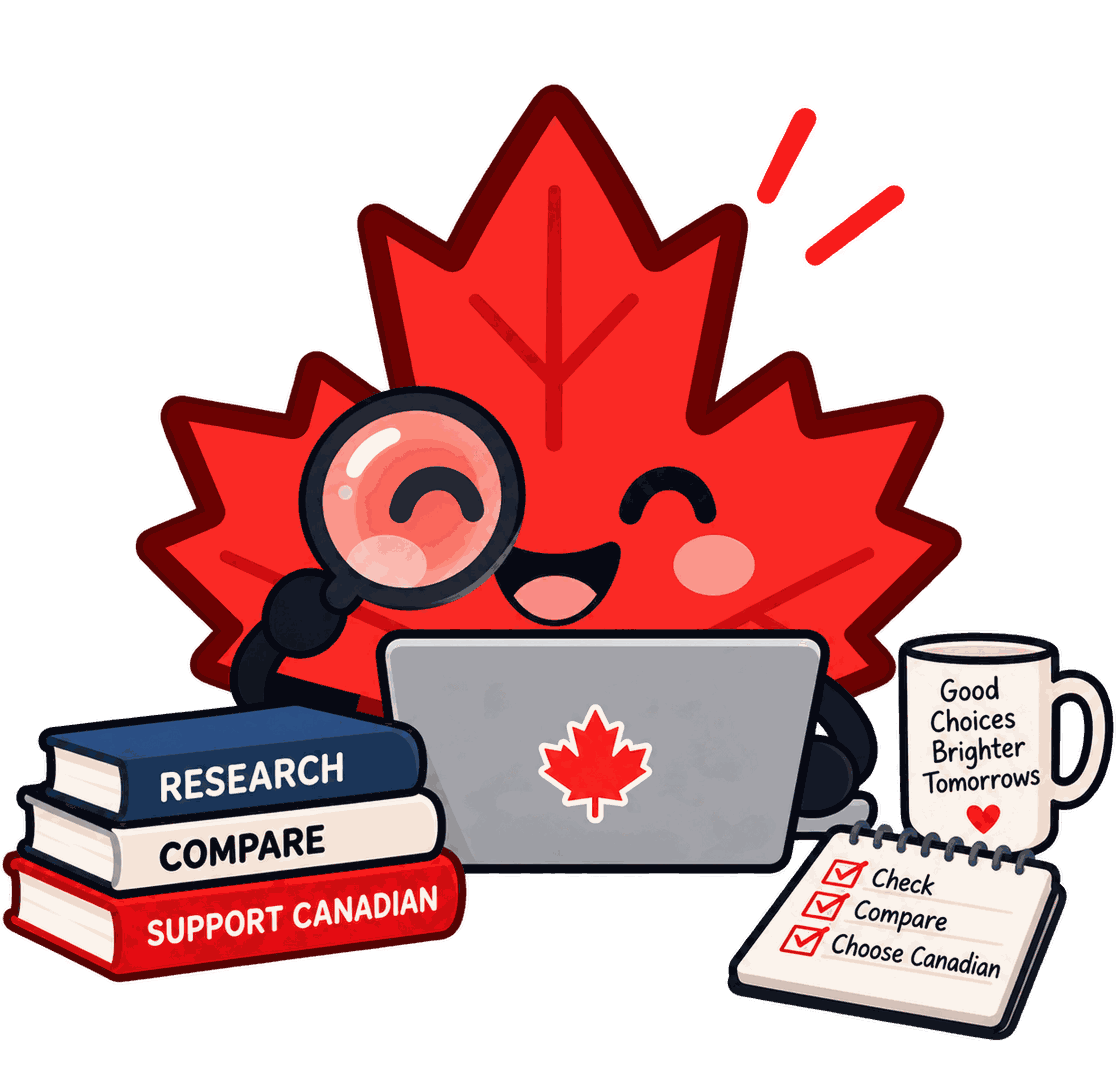
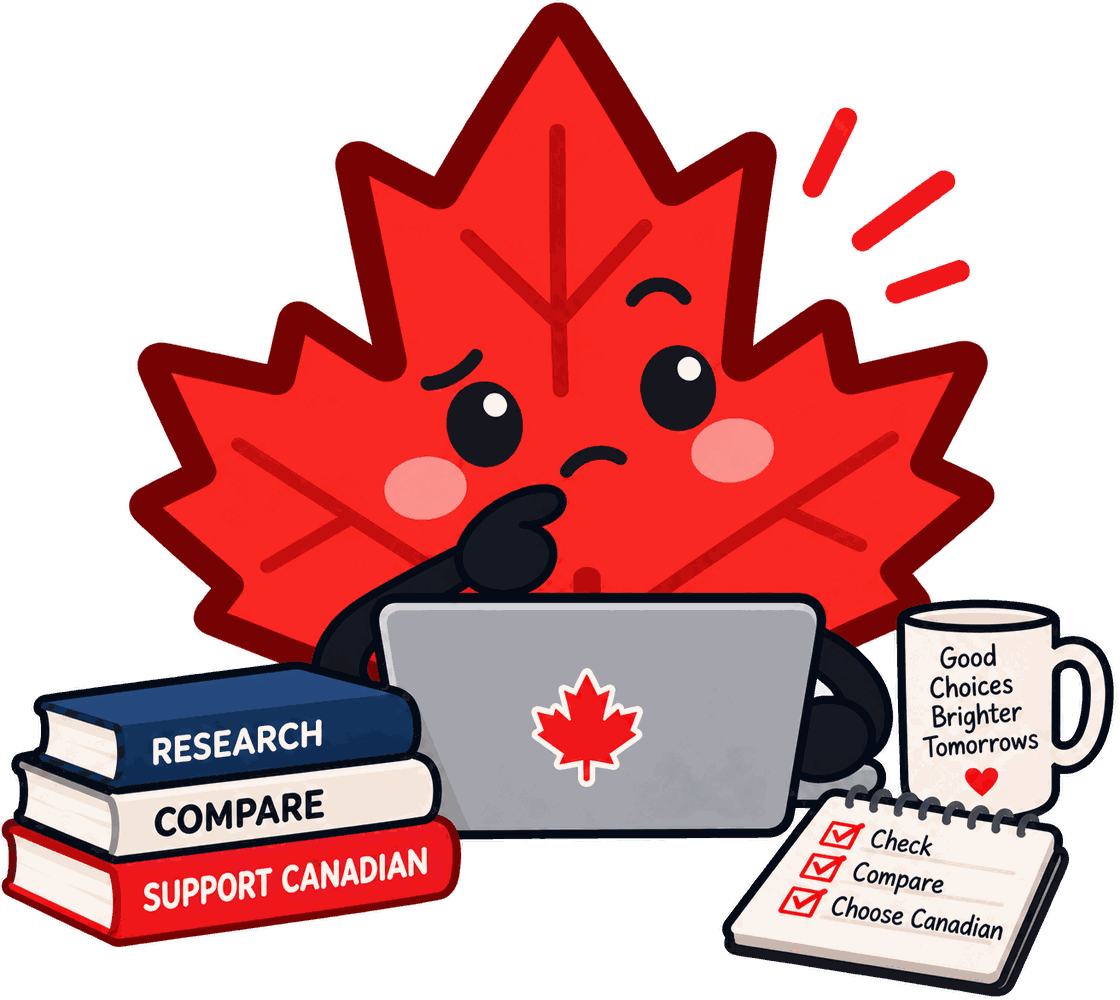
Swap in the thoughtful mascot on findings; add the clipboard one to feedback
The findings art is now the thoughtful expression rather than the
grinning one, which sits better against a page about brands that quietly
stopped being Canadian.

Feedback gets the clipboard-and-question-marks leaf, kept small and set
beside the heading rather than used as a hero — that page's job is to get
someone into the form, so the art should add warmth without pushing the
form down the screen.

Both processed the same way as before: transparent margin trimmed, capped
at the size they are actually displayed, served as WebP with a quantised
PNG fallback. 1053 KB to 134/86 KB, and 846 KB to 49/28 KB.

diff --git a/style.css b/style.css
@@ -692,3 +692,14 @@ footer.site-footer .wrap {
   .findings-hero { grid-template-columns: 1.55fr 1fr; gap: 32px; }
   .findings-hero-art { max-width: 100%; margin: 0; }
 }
+
+/* ---- Feedback page mascot ----
+   Small and beside the heading rather than a hero: this page's job is to get
+   someone into the form, so the art adds warmth without pushing the form down
+   the screen. Hidden from assistive tech order concerns by being purely
+   decorative alongside a heading that already says what the page is. */
+.feedback-head { display: flex; align-items: center; gap: 18px; flex-wrap: wrap; }
+.feedback-head h2 { margin: 0; flex: 1 1 260px; }
+.feedback-art { flex: 0 0 auto; width: 104px; }
+.feedback-art img { width: 100%; height: auto; display: block; }
+@media (max-width: 560px) { .feedback-art { width: 76px; } }

diff --git a/feedback.html b/feedback.html
@@ -38,7 +38,13 @@
 
 <section class="section">
   <div class="wrap">
-    <h2>Tell us what would make this better</h2>
+    <div class="feedback-head">
+      <h2>Tell us what would make this better</h2>
+      <picture class="feedback-art">
+        <source srcset="mascot-feedback.webp" type="image/webp" />
+        <img src="mascot-feedback.png" width="560" height="584" alt="The MapleCheck maple leaf holding a clipboard and pen, with question marks above its head." />
+      </picture>
+    </div>
     <p class="section-lede">
       MapleCheck is an independent project — not a company, not a government
       service, and not anybody's side hustle with a marketing budget. It is

diff --git a/build-findings-page.js b/build-findings-page.js
@@ -218,7 +218,7 @@ const html = `<!DOCTYPE html>
       </div>
       <picture class="findings-hero-art">
         <source srcset="mascot.webp" type="image/webp" />
-        <img src="mascot.png" width="1120" height="1079" alt="The MapleCheck maple leaf at a laptop with a magnifying glass, beside books labelled Research, Compare, Support Canadian and a checklist reading Check, Compare, Choose Canadian." />
+        <img src="mascot.png" width="1120" height="1000" alt="The MapleCheck maple leaf looking thoughtfully at a laptop, beside books labelled Research, Compare, Support Canadian and a checklist reading Check, Compare, Choose Canadian." />
       </picture>
     </div>
 `;

diff --git a/findings.html b/findings.html
@@ -57,7 +57,7 @@
       </div>
       <picture class="findings-hero-art">
         <source srcset="mascot.webp" type="image/webp" />
-        <img src="mascot.png" width="1120" height="1079" alt="The MapleCheck maple leaf at a laptop with a magnifying glass, beside books labelled Research, Compare, Support Canadian and a checklist reading Check, Compare, Choose Canadian." />
+        <img src="mascot.png" width="1120" height="1000" alt="The MapleCheck maple leaf looking thoughtfully at a laptop, beside books labelled Research, Compare, Support Canadian and a checklist reading Check, Compare, Choose Canadian." />
       </picture>
     </div>
 
